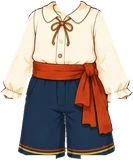
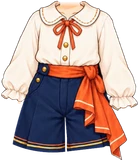
여아 해적 옷 새 원화로 교체 (#768)
원화 목을 여아 목 중심·어깨 시작점에 맞추고 목 폭이 같아지는 배율 0.70으로 얹었다. 원화 목은 페이드. imgGirl ?v=4.

Claude-Session: https://claude.ai/code/session_018maNuYqDfFyRSe9uKpZhPR

diff --git a/src/data/avatarEquipment.js b/src/data/avatarEquipment.js
@@ -289,7 +289,10 @@ export const AVATAR_CATALOG = [
      RGB 는 몸까지 다 있고 알파는 옷 모양이다. 그래서 배경을 지워 몸 실루엣으로 배율만 잡고
      (머리끝·발끝 → 배율 0.59329), 같은 변환을 알파에 담긴 옷에 그대로 적용했다.
      색으로 옷을 골라낼 필요가 없어서 제일 깔끔하다. 탑재 상자 (358,397)-(670,763). */
-  { id: "top_pirate",     slot: "top",   label: "해적 옷",     emoji: "⚓", price:DECOR_PRICE.epic, rarity: "epic", theme: "pirate", coversBottom: true, img: "assets/avatar/top/pirate-outfit-boy.webp", imgGirl: "assets/avatar/top/pirate-outfit-girl.webp?v=3", thumb: "assets/avatar/thumb/top_pirate.webp", thumbGirl: "assets/avatar/thumb/top_pirate-girl.webp" },
+  /* [2026-10-02] 여아 해적 옷 새 원화로 교체 — 크림 퍼프 블라우스(둥근 깃·주황 리본) + 주황 허리띠 남색 반바지(사용자 원화).
+     베이커리룩과 같은 방식: 원화 목 외곽선 중심(x209)을 여아 목 중심 x512.5 에, 곧은 목선이 끝나는 원화 y15 를 y372 에 맞추고
+     배율 0.70(원화 목 폭 63 → 여아 목 44, 흰 수영복도 이 값부터 다 가려진다). 원화 목은 페이드. imgGirl ?v=4 · thumbGirl ?v=2. */
+  { id: "top_pirate",     slot: "top",   label: "해적 옷",     emoji: "⚓", price:DECOR_PRICE.epic, rarity: "epic", theme: "pirate", coversBottom: true, img: "assets/avatar/top/pirate-outfit-boy.webp", imgGirl: "assets/avatar/top/pirate-outfit-girl.webp?v=4", thumb: "assets/avatar/thumb/top_pirate.webp", thumbGirl: "assets/avatar/thumb/top_pirate-girl.webp?v=2" },
   /* 민트 후드 — 남아 전용 첫 아이템(forGender:"boy"). 크림 후드 + 왼팔만 보라 소매 +
      민트 후드 안감·꽃 패치 + 짙은 카고 반바지. 상·하의가 한 장이라 상의 슬롯 하나.
      원화는 옷만 오려 낸 깨끗한 그림인데 **후드 안쪽 목·가슴 살은 일부러 남겼다** —

diff --git a/art-src/README.md b/art-src/README.md
@@ -375,7 +375,7 @@ getBoundingClientRect로 재서 정한다. 2026-08-05 점검에서 이 기준을
 | space-girl-src.webp | **[2026-09-25 탑재본 청소]** 색으로 옷을 떼어낸 흔적(손·목·발 살 조각, 깃 안쪽 목)이 층에 남아 있었다. 입은 모습에선 베이스의 같은 자리와 겹쳐 안 보였지만 **상점 카드에선 옷에 손이 매달린 것처럼 보였다.** 소매부리 y583 아래 바깥 덩어리·바지밑단 y868 아래·깃 안쪽 y346~374 의 살과 머리카락을 지우고(3,812px + 부스러기 9조각 22px) 썸네일을 다시 뽑았다. 남아 것도 깃 안쪽 목(y400~428, 1,608px)을 같은 이유로 지웠다. 깃 안은 베이스의 제 목이 채우므로 구멍이 생기지 않는다(실측 확인). **우주복 원화 여아 (사용자 원화 2026-08-19)** — 베이스 v7 여아가 **입고 있는 전신 그림**(897×1753, 배경 검정). 크림색 우주복 + 연보라 어깨·벨트·무릎보호대 + 금색 지퍼·별 패치. 팔다리까지 덮는 한 벌 | avatar/top/space-suit-girl.webp |
 | picnic-girl-src.webp | **딸기 소풍 옷 원화 여아 (사용자 원화 2026-08-19)** — 베이스 v7 여아가 **입고 있는 전신 그림**(859×1832, 배경 검정). 분홍 깅엄 카디건 + 크림 블라우스 + 딸기 자수 산호색 반바지 | avatar/top/picnic-outfit-girl.webp |
 | magic-girl-src.webp | **별빛 마법사 옷 원화 여아 (사용자 원화 2026-08-19)** — 베이스 v7 여아가 **입고 있는 전신 그림**(854×1842, 배경 검정). 보라 케이프 + 금별 브로치·벨트 + 지그재그 밑단 별무늬 치마. 예전 '별빛 마법사 주름치마'(magic-skirt-navy-src)를 대체해서 구버전 원본·배포본은 지웠다 | avatar/top/magic-outfit-girl.webp |
-| pirate-girl-outfit-src.webp | **해적 옷 원화 여아 (사용자 원화 2026-08-20)** — 772×1536 캔버스에 **옷만 오려 낸 그림**(알파 상자 (161,554)-(599,1070)). 크림 긴팔 블라우스 + 주황 허리띠 + 남색 반바지. 배율 0.74 · 깃 위끝 y372 → 탑재 상자 (350,372)-(674,754) | avatar/top/pirate-outfit-girl.webp |
+| pirate-girl-outfit-src.webp | **해적 옷 원화 여아 — 새 판 (사용자 원화 2026-10-02, 이전 판 교체)**. 416×485 투명 배경, 크림 퍼프 블라우스(둥근 깃·주황 리본·금단추) + 주황 허리띠를 맨 남색 반바지 한 벌. 위쪽에 목(턱 없음)이 함께 그려져 있다. 원화 목 외곽선 x177.5~240.5(폭 63, 중심 209)를 여아 목 중심 x512.5 에, 곧은 목선이 끝나는 원화 y15 를 여아 y372 에 맞추고 배율 0.70(목 폭이 같아지는 값 · 흰 수영복도 이 값부터 0). 목 살(r−b>70)과 목 옆선은 원화 y4→20 동안 0→1 페이드. 조각 1개. 탑재 상자 (366,362,657,702) · imgGirl ?v=4 | avatar/top/pirate-outfit-girl.webp · thumb/top_pirate-girl.webp |
 | picnic-girl-hat-worn-src.webp | **딸기 밀짚모자 원화 여아 (사용자 원화 2026-08-20)** — 베이스 v7 여아가 **쓰고 있는 머리 그림**(557×565, 투명). 밀짚모자 + 빨간 띠 + 딸기. 얼굴 상자로 맞춤(배율 0.6317) · 탑재 상자 (342,71)-(693,284) | avatar/hat/picnic-hat-girl.webp |
 | picnic-girl-set-worn-src.webp | **딸기 소풍 세트 전신 그림 여아 (사용자 원화 2026-08-20)** — 860×1829, 알파가 머리 부분만 살아 있어서 **RGB의 검정 배경을 흘려 지워** 썼다. 여기서 신발(발목 아래)만 떼어냈다. 바구니는 손에 가려 조각나서 못 썼다 | **(넣었다가 상점에서 뺌 2026-08-20)** — 그림은 avatar/shoes/picnic-shoes-girl.webp 에 그대로 있다 |
 | pirate-girl-hat-worn-src.webp | **해적 모자 원화 여아 (사용자 원화 2026-08-20)** — 베이스 v7 여아가 **쓰고 있는 머리 그림**(664×592, 투명). 남색 삼각모 + 주황 테두리 + 불가사리. 얼굴 상자로 맞춤(배율 0.6336) · 탑재 상자 (313,58)-(723,329) | avatar/hat/pirate-hat-girl.webp |
